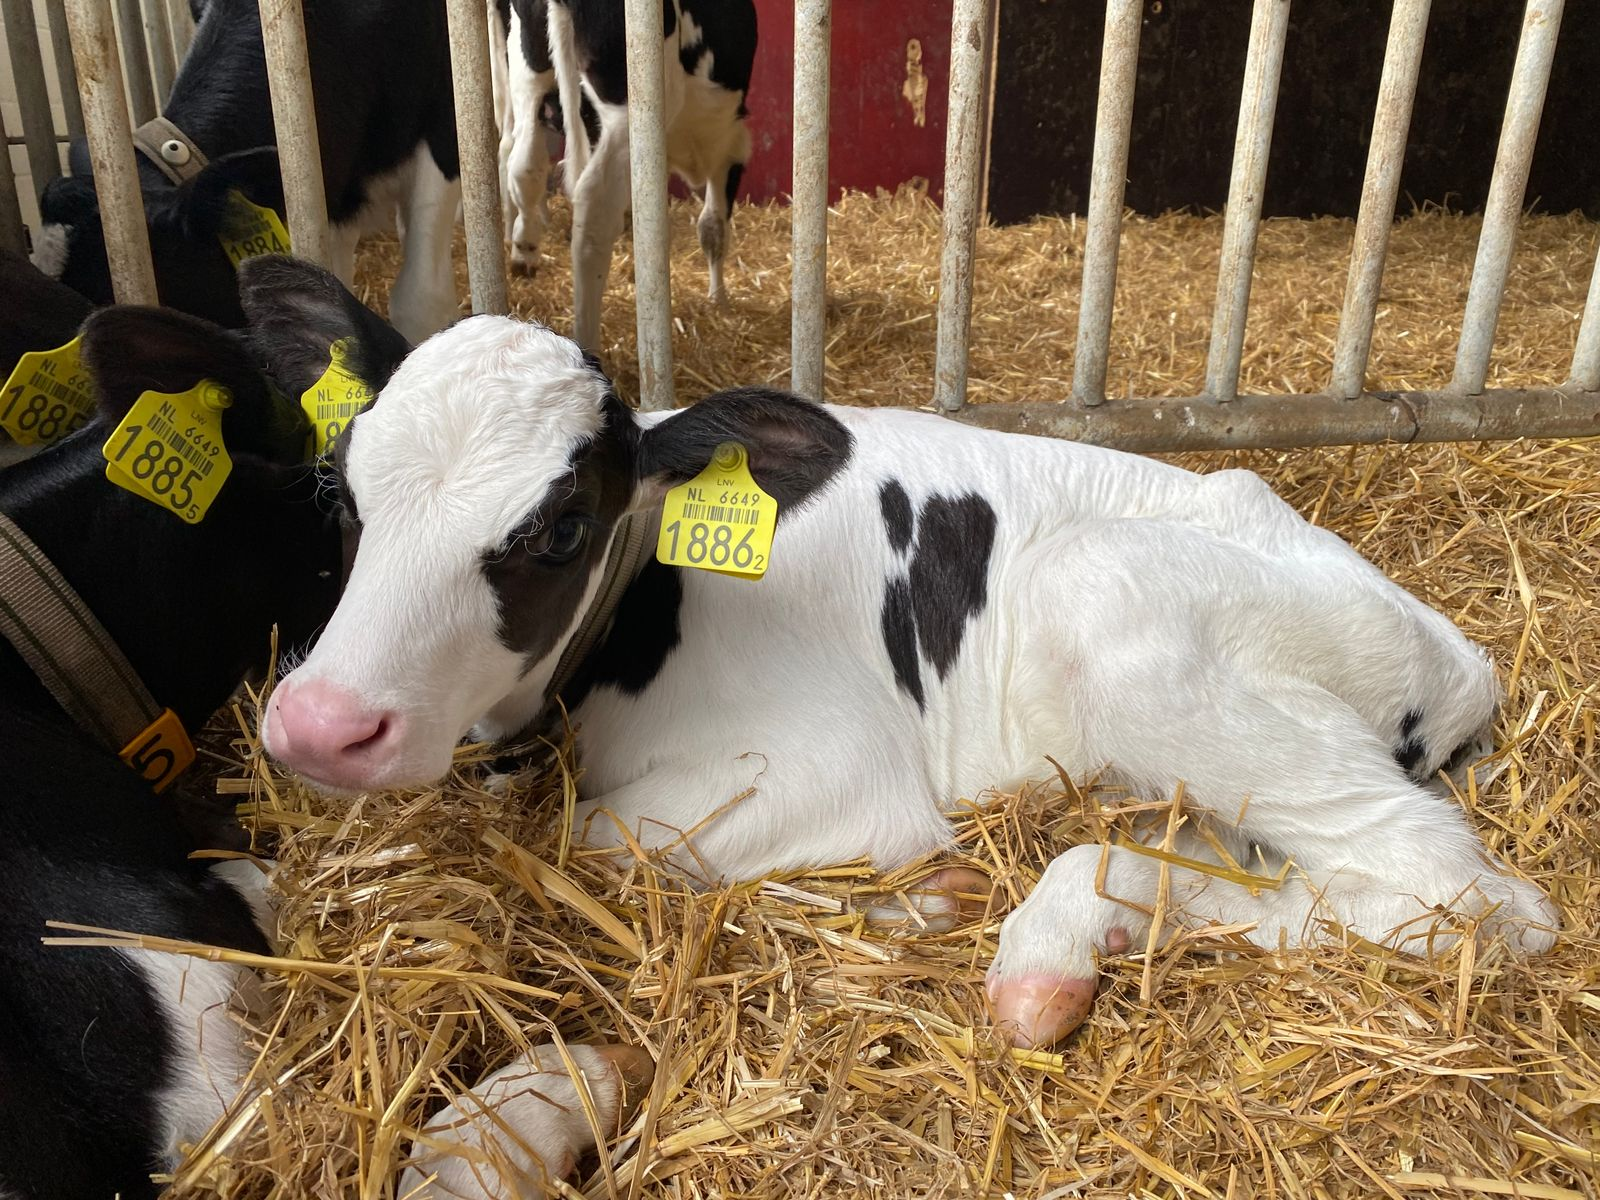
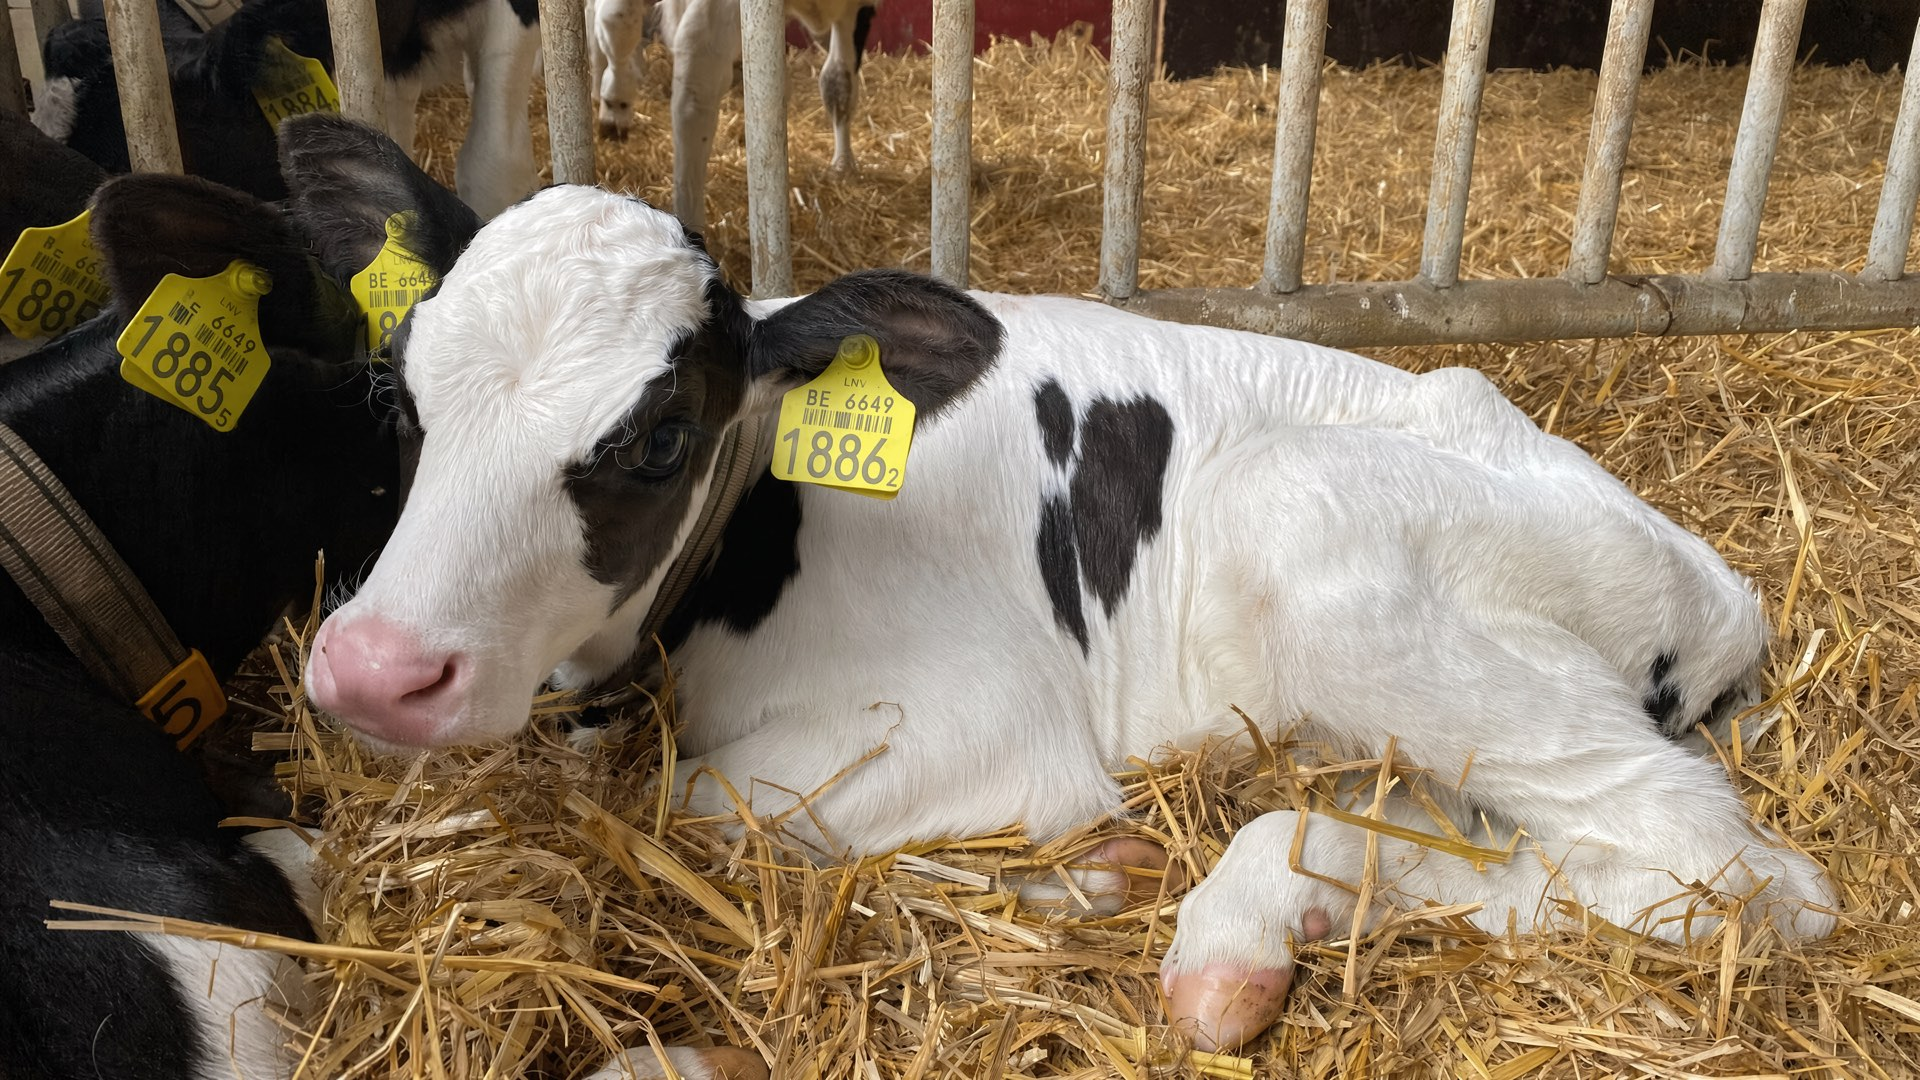
Landing Page aktualisiert

diff --git a/index.html b/index.html
@@ -105,7 +105,7 @@
     padding-bottom: clamp(40px, 7vw, 88px);
     overflow: hidden;
   }
-  .held-bild { position: absolute; inset: 0; z-index: -2; width: 100%; height: 100%; object-fit: cover; object-position: 30% 35%; } /* hochkant: Kopf des Kalbs im Bild */
+  .held-bild { position: absolute; inset: 0; z-index: -2; width: 100%; height: 100%; object-fit: cover; object-position: 20% 35%; } /* hochkant: Gesicht des Kalbs (Schnauze bis Ohrmarke) im Bild */
   .held::before {
     content: ""; position: absolute; inset: 0; z-index: -1;
     background: linear-gradient(rgba(10, 30, 14, .5), transparent 18%, transparent 42%, rgba(19, 50, 25, .82) 68%, var(--stall));
@@ -413,7 +413,7 @@
 </svg>
 
 <header class="held">
-  <img class="held-bild" src="kaelber.jpg" alt="Gesunde Kälber in einem sauberen, ordentlichen Stall" fetchpriority="high">
+  <img class="held-bild" src="kaelber.jpg" alt="Junges Kalb liegt im frischen Stroh" fetchpriority="high">
   <div class="huelle">
     <div class="kopf">
       <a class="marke" href="#"><svg aria-hidden="true"><use href="#logo"/></svg>Kälber Management</a>
